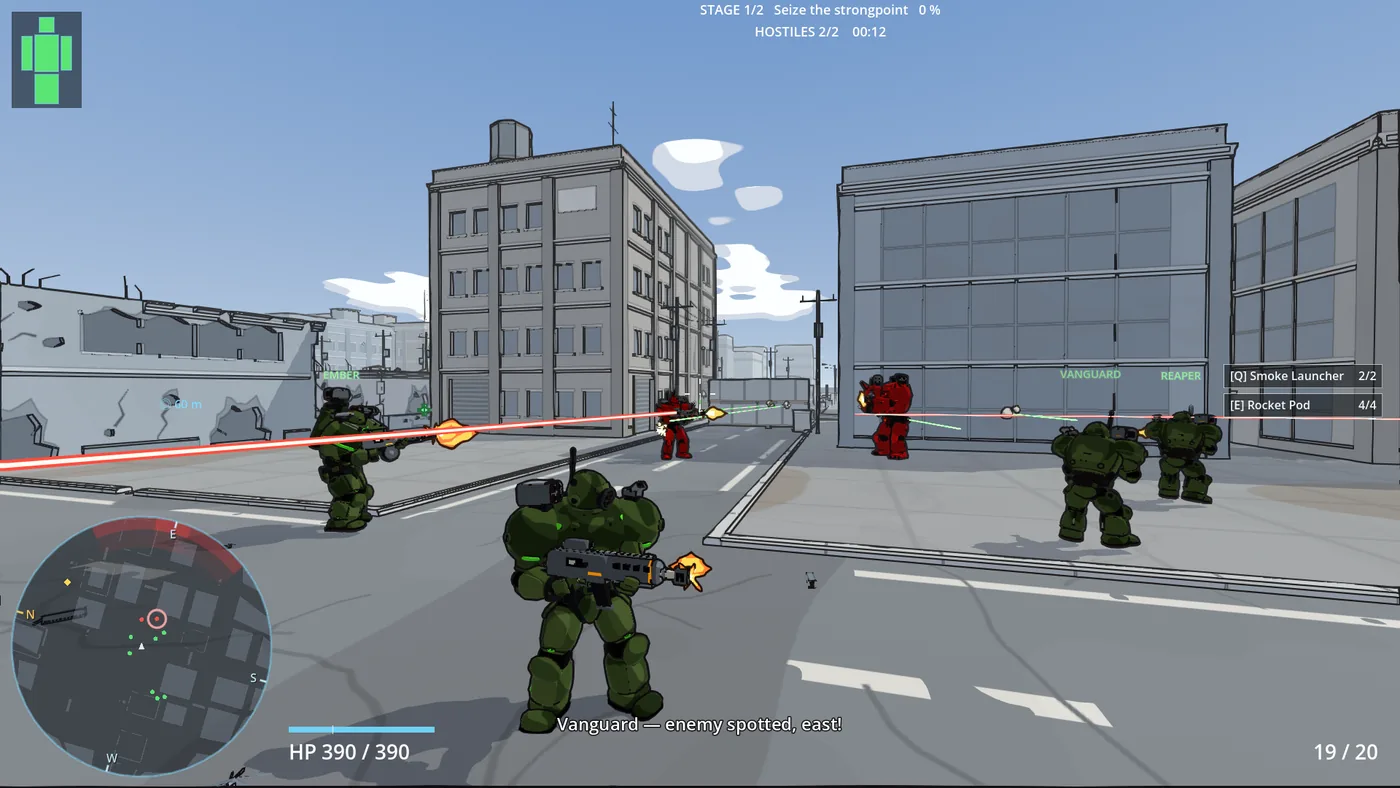
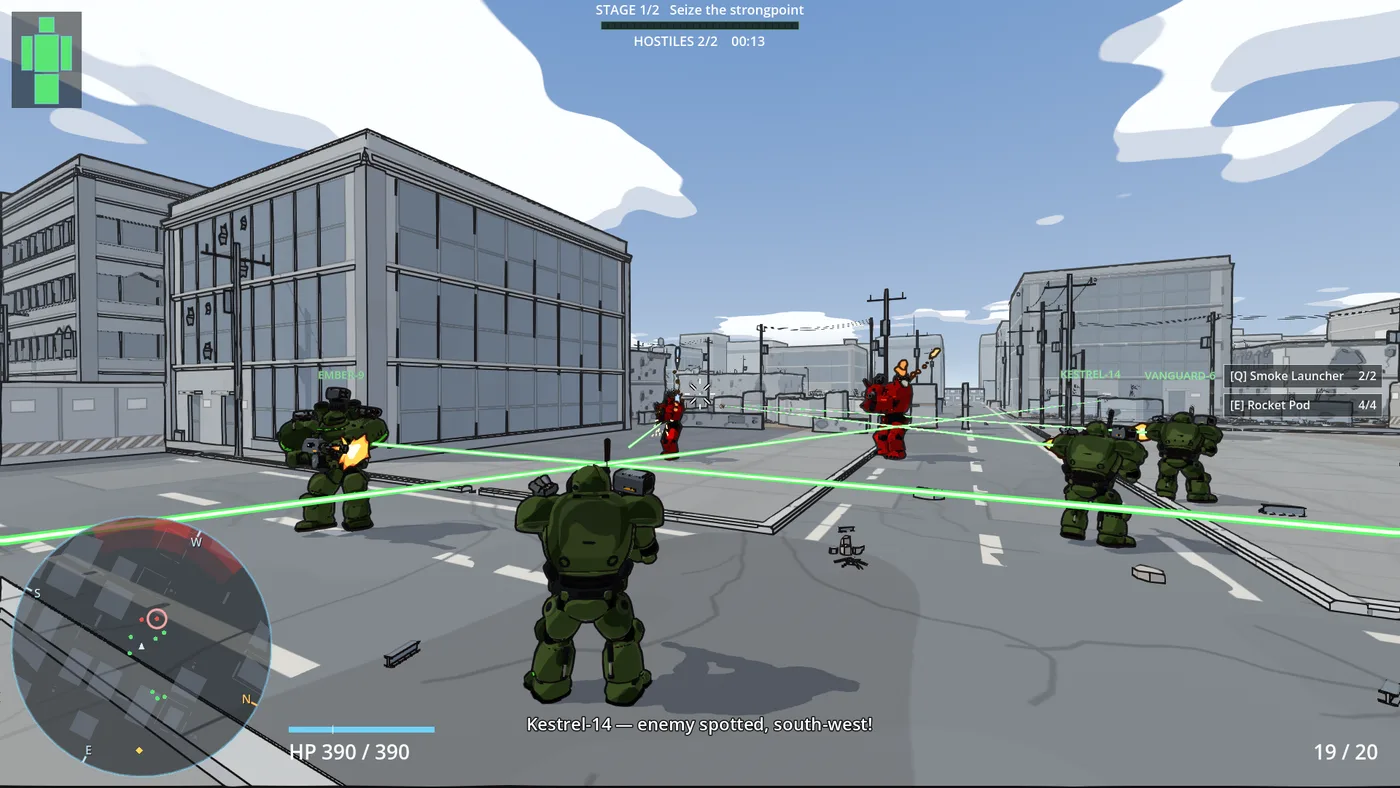
Tin Coffins: the pictures re-taken on current robot-fps master
Re-derived per ASSETS.md from robot-fps ae27f54 (nvoorhies/robot-fps#550):
the six Steam screenshots, the hero and home card from the 4K art frames, and
the social preview. The city has its hero landmarks now, and the arrival shot
is back at street level after the capture harness stopped putting its camera
on rooftops. The wordmark and citation badges are unchanged upstream, so they
stay. The firefight's alt text follows the new frame: a different callout,
no barricade, no return tracer.

diff --git a/tin-coffins/index.html b/tin-coffins/index.html
@@ -114,7 +114,7 @@
       <div class="shots">
         <figure class="shot wide">
           <img src="/assets/img/tc-firefight.webp" width="1400" height="788" loading="lazy"
-               alt="In-game, over the pilot’s shoulder with the full HUD: the squad spread across an intersection between grey office blocks, wingmates firing down the street at two red enemy mechs by a barricade, green tracers going out and a red one coming back, a radio subtitle reading “Vanguard — enemy spotted, east!”">
+               alt="In-game, over the pilot’s shoulder with the full HUD: the squad spread across a wide street between grey office blocks, wingmates firing down the road at two red enemy mechs, green tracers crossing the street, a radio subtitle reading “Kestrel-14 — enemy spotted, south-west!”">
           <figcaption>First contact. Radar, ammunition and the radio along the bottom; the squad’s callsigns over their heads.</figcaption>
         </figure>
         <figure class="shot">

diff --git a/ASSETS.md b/ASSETS.md
@@ -48,7 +48,7 @@ Images and videos in posts live with each post's Markdown in
 
 ## Tin Coffins page
 
-Everything here is captured from the game by its own harness — [nvoorhies/robot-fps](https://github.com/nvoorhies/robot-fps) `tools/promo/capture.sh` (see that repo's `tools/promo/README.md`) — so a graphics update is a re-capture, not a redraw. The game's art is still in progress, and the page says so; re-derive every file below when that repo re-captures. Last re-captured 2026-10-05 from robot-fps master `8b05569`: the restyled city and the Blender-built mechs.
+Everything here is captured from the game by its own harness — [nvoorhies/robot-fps](https://github.com/nvoorhies/robot-fps) `tools/promo/capture.sh` (see that repo's `tools/promo/README.md`) — so a graphics update is a re-capture, not a redraw. The game's art is still in progress, and the page says so; re-derive every file below when that repo re-captures. Last re-captured 2026-10-08 from robot-fps `ae27f54` (nvoorhies/robot-fps#550, on master `3f494da`): the city with its hero landmarks, and the arrival shot back at street level.
 
 | file | source | notes |
 | --- | --- | --- |
